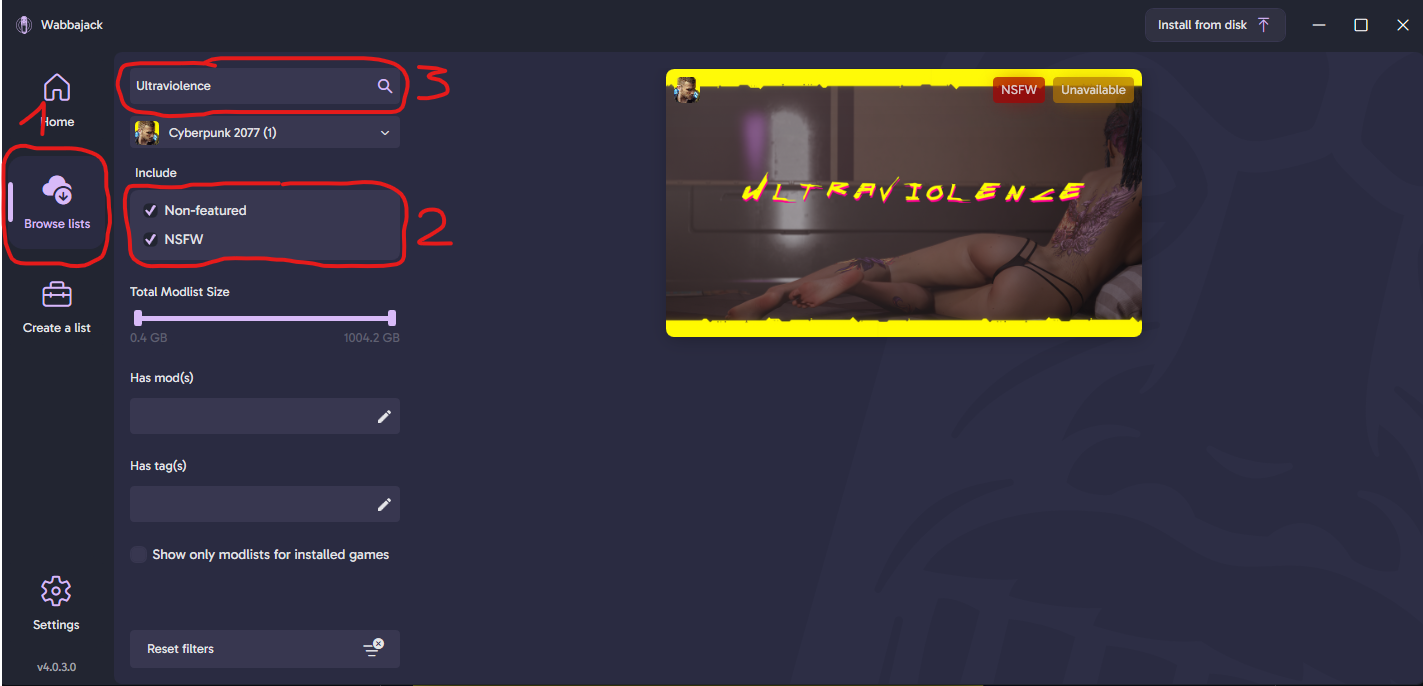
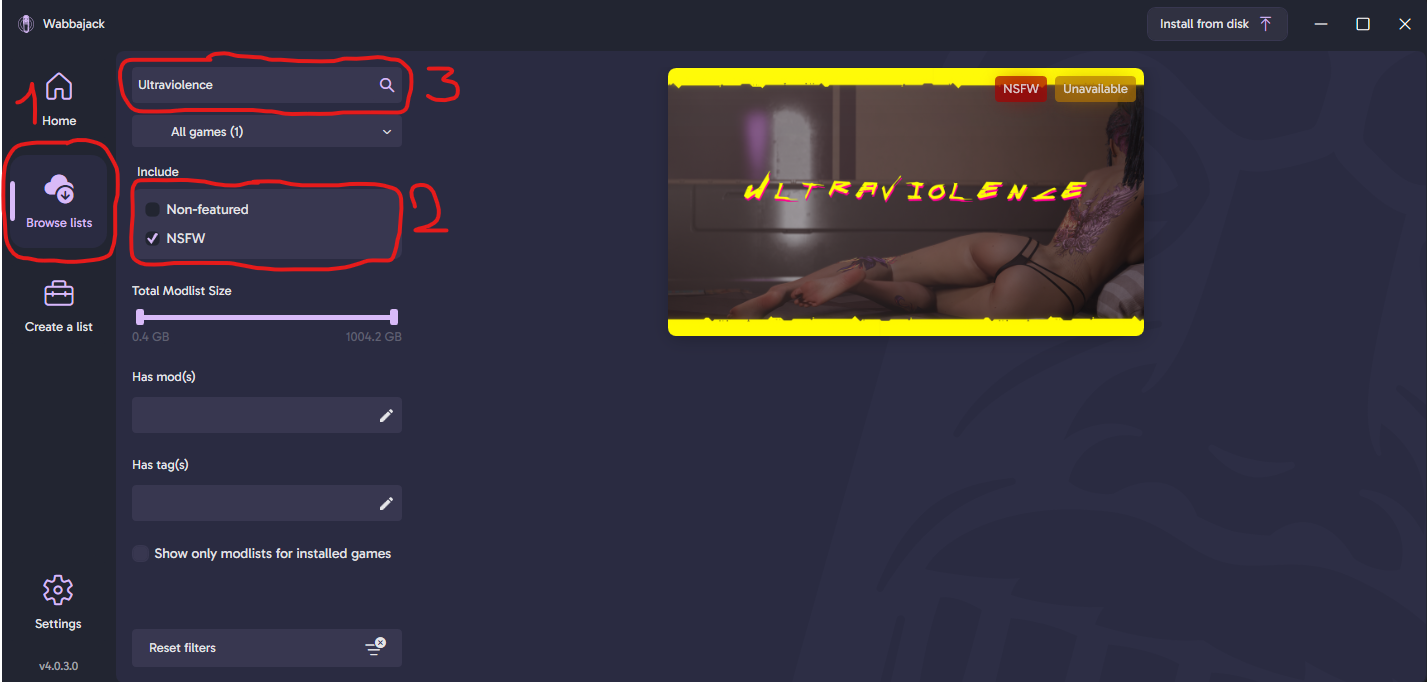
*Images/wj_search.png - updated since "not featured" is not necessary anymore *README.md - corrected wod-modify to uv-modify. duh. - removed respector because no longer needed

diff --git a/README.md b/README.md
@@ -47,7 +47,7 @@ If you want to ask for support in Discord (join the iAmMe Discord [here](https:/
 Please make sure to ask your question in the appropriate channel_
 
 - uv-general -> General discussion about the list or included mods.
-- wod-modify -> Support-Channel for non-vanilla UV installs (if you changed files, added or deleted mods in your UV install, ask for support here).
+- uv-modify -> Support-Channel for non-vanilla UV installs (if you changed files, added or deleted mods in your UV install, ask for support here).
 - uv-support -> Support-Channel for vanilla (unchanged) UV installs.
 
 # Install instructions
@@ -172,7 +172,7 @@ Go to [keybinds section](https://github.com/Gallahorn/Ultraviolence/blob/main/Ad
 - Open CET and pick a LUT you like with LUT SWITCHER  
 ![image](https://github.com/user-attachments/assets/90d64c4c-7fe2-4807-ad7f-64e58e183e28)
 
-- Open Respector and take a look [here](https://github.com/Gallahorn/Ultraviolence/blob/main/Advanced%20features.md#how-to-unlock-romance-options) how to enable Panam Romance as Female V.
+- Take a look [here](https://github.com/Gallahorn/Ultraviolence/blob/main/Advanced%20features.md#how-to-unlock-romance-options) how to enable Panam Romance as Female V.
 
 - Visit H10 apartment after new install or update and watch the TV in the apartment.
 
